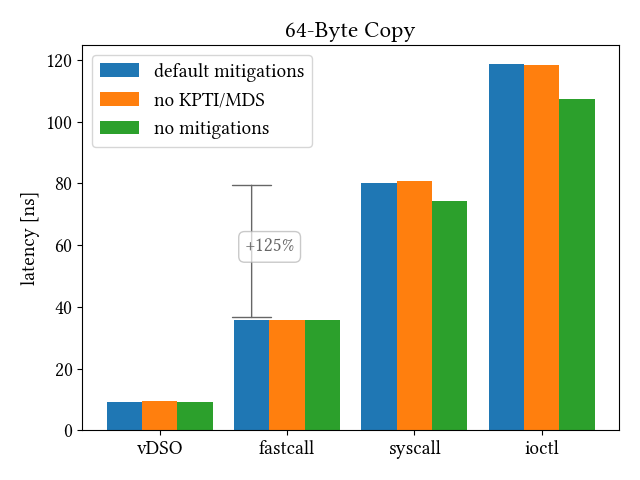
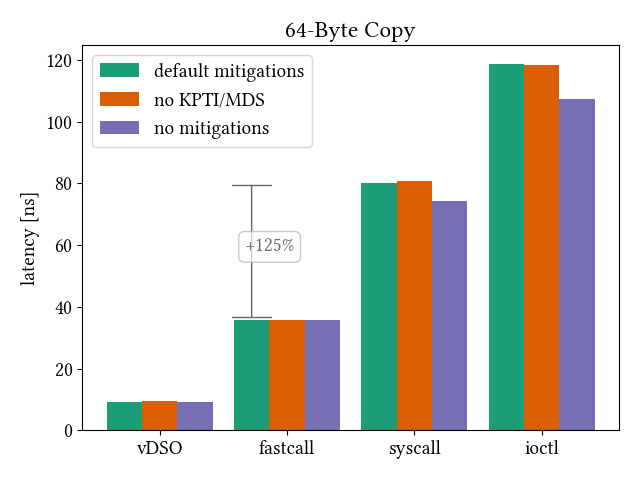
Changed plot color palette

diff --git a/plots.py b/plots.py
@@ -66,6 +66,7 @@ FONT = {"family": ["Linux Libertine", "Libertinus Serif", "serif"],
         "size": 14}
 """This mimics the font used in the paper."""
 
+COLORS = ("1b9e77", "d95f02", "7570b3")
 BAR_OFFSET = -(len(MITIGATIONS) - 1) * BAR_WIDTH / 2
 BAR_GROUP = len(MITIGATIONS) * BAR_WIDTH + BAR_SPACE
 
@@ -193,13 +194,14 @@ def plot_scenario(plot_file, title, y_label, results):
         return
 
     fig, ax = plt.subplots()
+    ax.set_prop_cycle(color=COLORS)
     ax.set_title(title)
     ax.set_ylabel(y_label)
 
     x = np.arange(len(METHODS)) * BAR_GROUP
     for i, mitigation in enumerate(MITIGATIONS.values()):
-        ax.bar(x + BAR_OFFSET + i * BAR_WIDTH,
-               results[i, :], BAR_WIDTH, label=mitigation)
+        ax.bar(x + BAR_OFFSET + i * BAR_WIDTH, results[i, :], BAR_WIDTH,
+               label=mitigation)
 
     ax.set_xticks(x)
     ax.set_xticklabels(METHODS.values())
